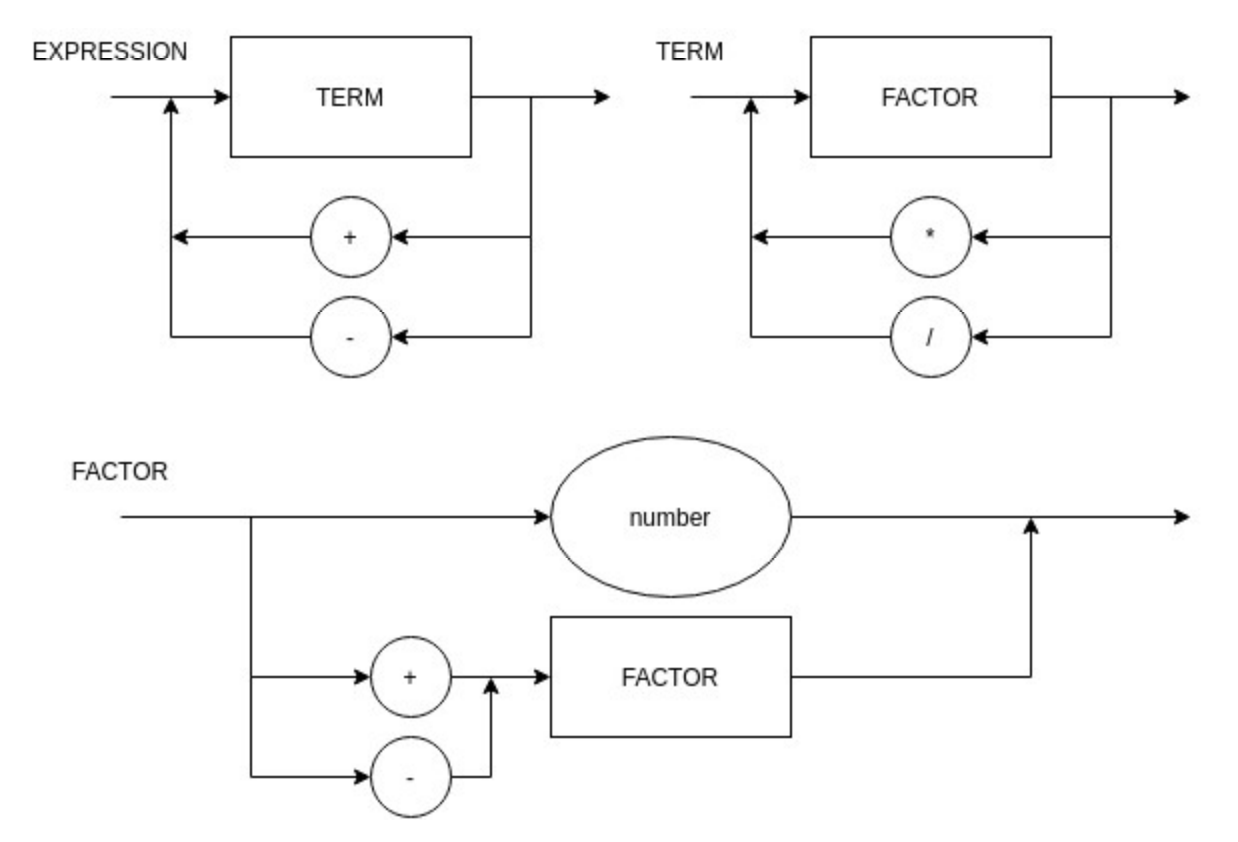
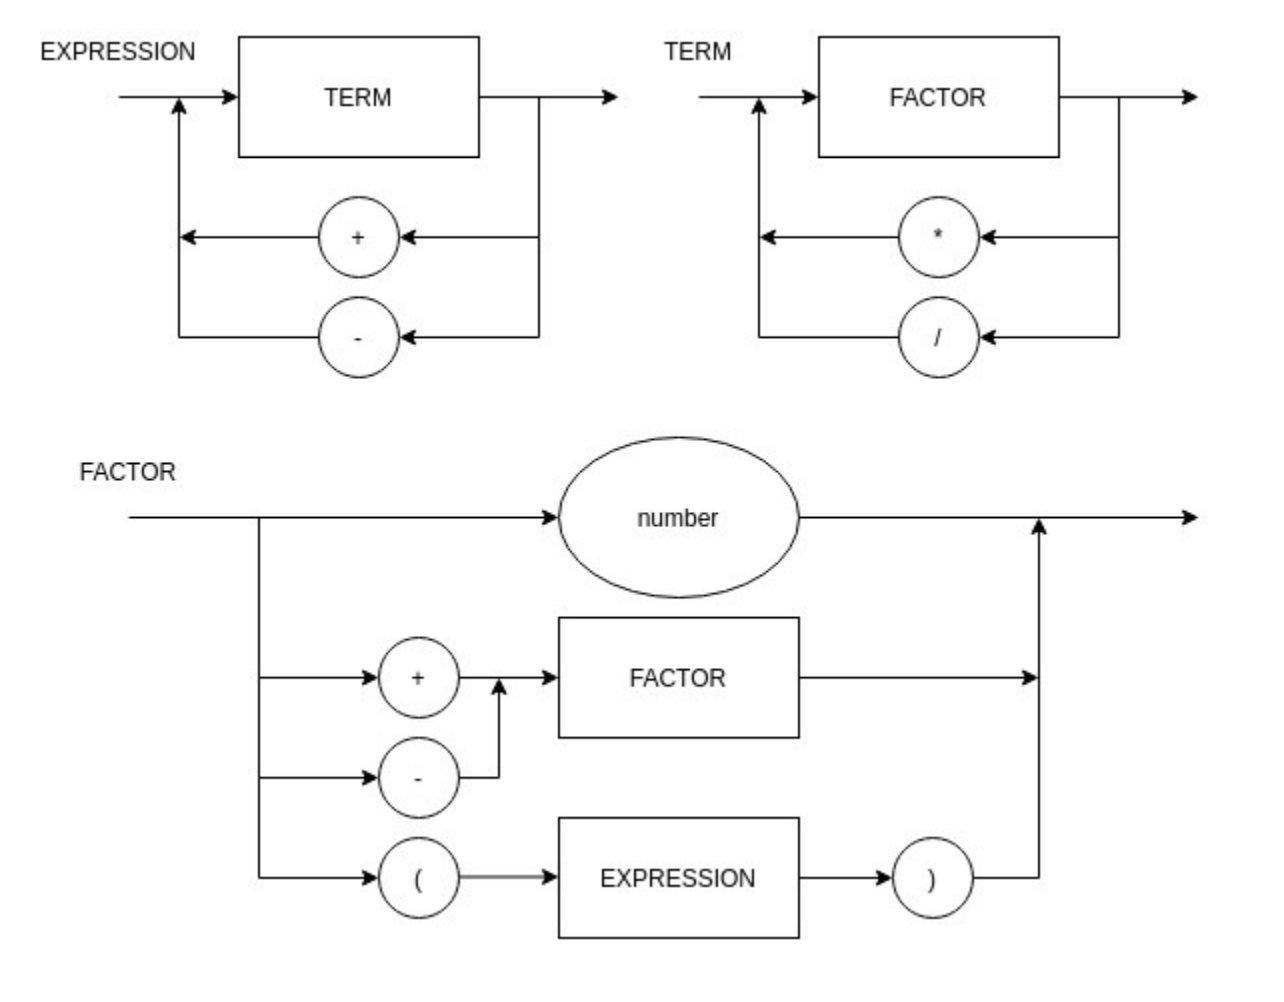
v1.2.1

diff --git a/main.py b/main.py
@@ -87,38 +87,60 @@ class Tokenizer:
 
 class Parser:
     @staticmethod
-    def parseTerm(tokenizer: Tokenizer):
-        if tokenizer.actual.value.isdigit():
+    def parseFactor(tokenizer: Tokenizer):
+
+        if tokenizer.actual.type == EXP_OP:
+            if tokenizer.actual.value == '+':
+                tokenizer.selectNext()
+                return Parser.parseFactor(tokenizer)
+            if tokenizer.actual.value == '-':
+                tokenizer.selectNext()
+                return -Parser.parseFactor(tokenizer)
+        elif tokenizer.actual.type == NUMBER:
             result = int(tokenizer.actual.value)
             tokenizer.selectNext()
-            while tokenizer.actual.type == TERM_OP:
+            return result
 
-                if tokenizer.actual.value == '*':
-                    next_token = tokenizer.selectNext()
-                    if not next_token or not next_token.value.isdigit():
-                        raise ValueError(
-                            "<ERROR> Missing expected integer after operator")
-                    result *= int(next_token.value)
-
-                elif tokenizer.actual.value == '/':
-                    next_token = tokenizer.selectNext()
-                    if not next_token or not next_token.value.isdigit():
-                        raise ValueError(
-                            "<ERROR> Missing expected integer after operator")
-                    result /= int(next_token.value)
-
+        if tokenizer.actual.value == "(":
+            tokenizer.selectNext()
+            result = Parser.parseExpression(tokenizer)
+            if tokenizer.actual.value == ")":
                 tokenizer.selectNext()
+                return result
+            else:
+                raise ValueError("<ERROR> Missing closing brackets")
+
+        if tokenizer.actual.value == ")":
+            raise ValueError("<ERROR> Unexpected closing brackets")
+
         else:
-            raise ValueError(
-                "<ERROR> First character expected to be integer: {}".format(
+            raise ValueError("<ERROR> Invalid operand at this point")
+
+    @staticmethod
+    def parseTerm(tokenizer: Tokenizer):
+        # print(tokenizer.actual.value)
+        result = Parser.parseFactor(tokenizer)
+        while tokenizer.actual.type == TERM_OP:
+            if tokenizer.actual.value == '*':
+                tokenizer.selectNext()
+                next_token = Parser.parseFactor(tokenizer)
+                result *= int(next_token)
+
+            elif tokenizer.actual.value == '/':
+                tokenizer.selectNext()
+                next_token = Parser.parseFactor(tokenizer)
+                result /= int(next_token)
+            else:
+                raise ValueError("<ERROR> Character not expected: {}".format(
                     tokenizer.actual.value))
 
-        return int(result)
+        return result
 
     @staticmethod
     def parseExpression(tokenizer: Tokenizer):
+        # print(tokenizer.actual.value)
         result = Parser.parseTerm(tokenizer)
-        while tokenizer.actual.type != EOF:
+        while tokenizer.actual.type == EXP_OP:
             if tokenizer.actual.value == '+':
                 tokenizer.selectNext()
                 next_token = Parser.parseTerm(tokenizer)
@@ -131,6 +153,7 @@ class Parser:
             else:
                 raise ValueError("<ERROR> Character not expected: {}".format(
                     tokenizer.actual.value))
+
         return result
 
     @staticmethod
@@ -138,6 +161,8 @@ class Parser:
         expression = PrePro.filter(code)
         tokenizer = Tokenizer(expression)
         result = Parser.parseExpression(tokenizer)
+        if tokenizer.actual.type != EOF:
+            raise ValueError("<ERROR> Ended before EOF")
         sys.stdout.write(str(result) + '\n')
 
 
